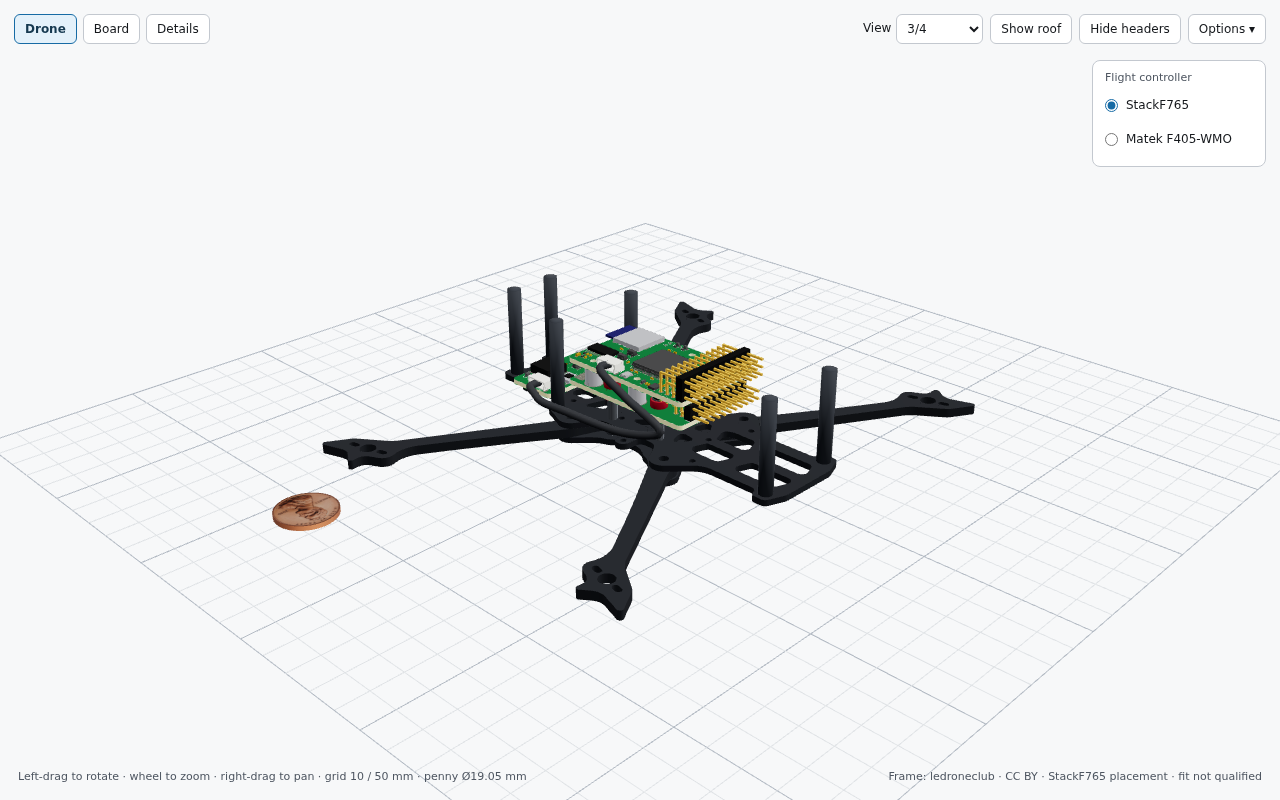
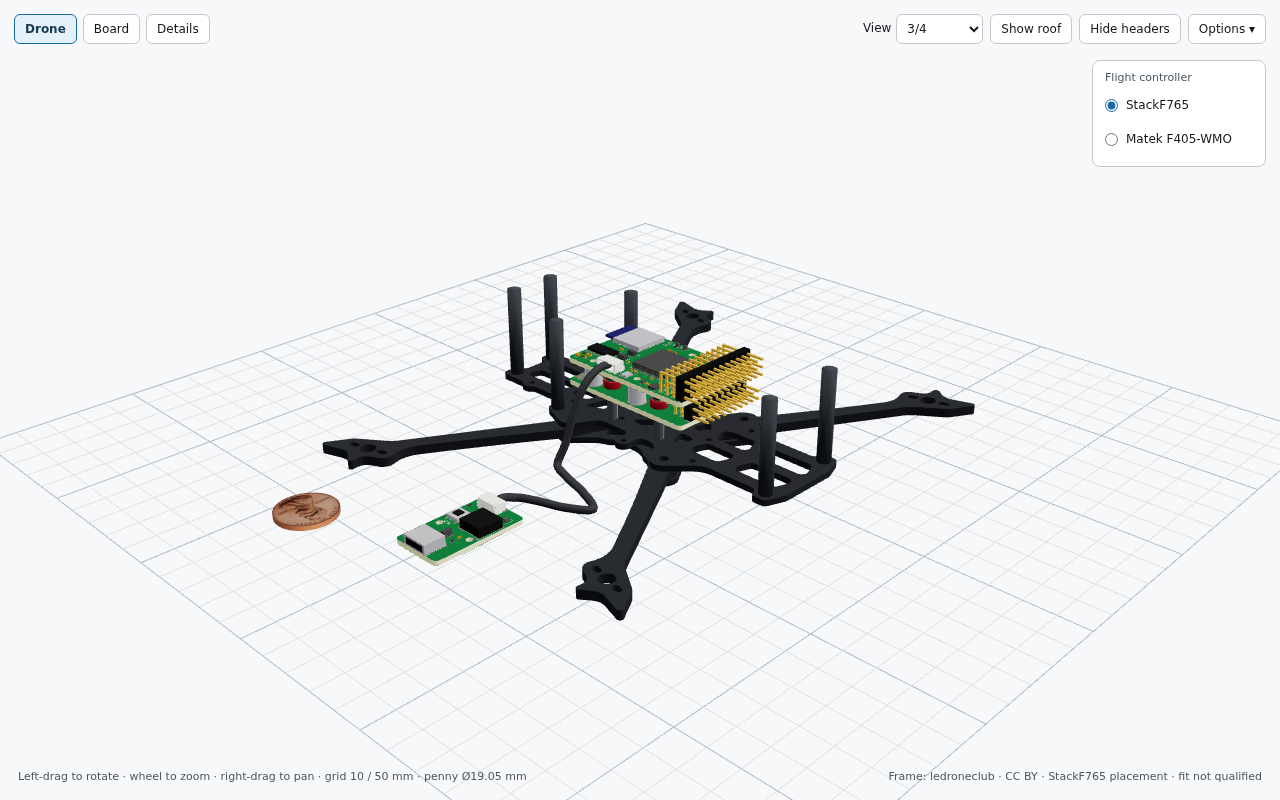
Show the service board loose on its 100 mm cable, not mounted on the frame
The service board (USB / buzzer / boot) now lies on the ground grid to the
right of the frame, unattached, with the cable draped from J5 on the upper
board's right-hand edge. Foam tape removed; Details and notes wording updated.

Changed region(s): [[0.3125, 0.4375, 0.5312, 0.7188]]

diff --git a/fc/index.html b/fc/index.html
@@ -4,7 +4,7 @@
 :root{--bg:#f7f8f9;--fg:#15181c;--muted:#4e5661;--panel:rgba(255,255,255,.92);--line:#c3c8cf}*{box-sizing:border-box}html,body{margin:0;height:100%;overflow:hidden;background:var(--bg);color:var(--fg);font:14px/1.45 system-ui,sans-serif}canvas{display:block}aside{position:absolute;left:18px;top:18px;width:300px;background:var(--panel);border:1px solid var(--line);border-radius:8px;padding:15px;z-index:2}h1{font-size:17px;line-height:1.25;margin:0 0 9px}p{margin:8px 0;color:var(--muted);font-size:12px}.key{font-size:12px;padding:8px 0;border-top:1px solid var(--line)}.badge{display:inline-block;font-size:10px;text-transform:uppercase;letter-spacing:.08em;background:#e6edf5;color:#29425b;padding:3px 7px;border-radius:4px;margin-bottom:9px}.dot{display:inline-block;width:10px;height:10px;border-radius:2px;margin-right:6px}.dark{background:#24272d}.green{background:#086b32}nav{position:absolute;right:18px;top:18px;display:flex;gap:6px;z-index:3;flex-wrap:wrap;justify-content:flex-end}button,a{font:12px system-ui;color:var(--fg);background:var(--panel);border:1px solid var(--line);padding:7px 10px;border-radius:6px;text-decoration:none;cursor:pointer}button:hover,a:hover{border-color:#65778c}footer{position:absolute;bottom:15px;left:18px;right:18px;font-size:11px;color:var(--muted);display:flex;justify-content:space-between;pointer-events:none}.label{position:absolute;padding:5px 8px;border:1px solid var(--line);border-radius:5px;background:var(--panel);font-size:12px;pointer-events:none;white-space:nowrap}.label small{display:block;font-size:10px;color:var(--muted)}#error{color:#a13d21} @media(max-width:850px){aside{width:250px;top:auto;bottom:45px;padding:10px;max-height:180px;overflow:auto}nav{left:10px;right:10px;top:10px}h1{font-size:14px}.label{display:none}footer{font-size:9px;gap:8px}}
 body #legend{max-height:min(460px,calc(100vh - 170px));overflow:auto}@media(max-width:850px){body #legend{top:132px;max-height:min(275px,calc(100vh - 330px));overflow:auto}}#fcOptions{position:fixed;right:14px;top:60px;z-index:5;min-width:174px;background:var(--panel);color:var(--fg);border:1px solid var(--line);border-radius:8px;padding:9px 12px;backdrop-filter:blur(4px)}.fc-selection{border:0;margin:0;padding:0;min-width:0}.fc-selection legend{color:var(--muted);font-size:11px;margin:0 0 3px;padding:0}.fc-selection label{display:flex;align-items:center;gap:8px;min-height:34px;font-size:12px;white-space:nowrap;cursor:pointer}.fc-selection input{margin:0;accent-color:#176ba5}.fc-selection label:focus-within{outline:2px solid #176ba5;outline-offset:2px;border-radius:3px}@media(max-width:850px){#fcOptions{top:104px;right:14px;min-width:166px;padding:8px 10px}.fc-selection label{min-height:36px}}.viewer-controls button:disabled{opacity:.55;cursor:default}#legend [hidden]{display:none!important}aside a.inline{font:inherit;color:inherit;background:none;border:0;padding:0;border-radius:0;text-decoration:underline}
 </style><link href="assets/pin-table.css" rel="stylesheet"/><link href="assets/controls.css" rel="stylesheet"/></head><body>
-<aside hidden="" id="legend"><span class="badge">Provisional placement study</span><h1 id="selectedTitle">StackF765<br/>MOD-L 4″ HD Cargo</h1><p id="selectedIntro">Actual supplied frame meshes and StackF765 board placement. Frame, main flight-controller stack and its service board only.</p><div class="key"><span class="dot dark"></span><b>MOD-L HD Cargo</b><br/>4″ regular arms · Cargo top/bottom · cross plate<br/>30 mm frame standoffs.<br/>Frame design: MOD-L by ledroneclub, <a class="inline" href="https://www.thingiverse.com/thing:4295478" rel="noopener" target="_blank">Thingiverse thing 4295478</a>, licensed Creative Commons Attribution (CC BY).</div><div class="key" id="newFCDetails">StackF765: STM32F765VIT6 flight controller, ArduPilot board name StackF765, 2S–3S, 50 A. Upper (flight controller) and Lower (power) boards: 31.5 × 48 mm on 6.0 mm standoffs; Upper top surface 7.6 mm above the Lower’s. 20 × 20 mm grommet mount. Service board (USB, buzzer, boot): 18 × 32 mm on a 100 mm six-wire JST-SH cable.</div><p id="roofNote">Roof hidden to show the FC and rubber grommets; frame posts are 30 mm.</p><p id="newFCFit">KiCad board models with standard dark-green display solder mask, black headers and gold pins applied as display materials. No synthetic pad solids, overlaid board textures or altered board geometry. Visible posts, red rubber mounts and screws are provisional nominal illustrations, as are the foam tape, cable route and position of the service board. No motors, ESC, battery or other wiring. Design verified by rule checks; no hardware built yet.</p><div hidden="" id="matekDetails"><div class="key"><b>Matek F405-WMO</b><br/>22 × 32 mm boards · reference 3D reconstruction<br/>1 mm adhesive mount at the same FC site.</div><p>Manufacturer photographs supply component appearance. Stack height and adhesive fit are reference estimates; this is not manufacturer CAD or a qualified mount. Headers are not fitted in this reference assembly.</p><p><a href="https://www.mateksys.com/?portfolio=f405-wmo" rel="noopener" target="_blank">Matek documentation and pinout</a></p></div><p id="error"></p><a href="#current-geometry-details">Design notes</a><section aria-label="Connector pin reference" data-fc-pin-table="" id="newFCPins"></section><details id="current-geometry-details"><summary>Current geometry and display limits</summary><p>Boards are the GLB models KiCad exports from the design files, placed by rigid transforms only: Lower PCB 9.5–11.1 mm above the bottom plate, 6.0 mm standoffs, 31.5 × 48 mm outlines. Colours are display materials, not a fabrication finish. Header visibility toggles the Upper J1 and Lower J2 header models; the interboard connector stays visible. Mounting posts, rubber, screws, tape and cable are simple drawn shapes, not CAD. The Matek option is a separate historical photo-derived reference.</p><p>Renders generated from the KiCad design files at <a class="inline" href="https://github.com/PeterJBurke/stackf765" rel="noopener">github.com/PeterJBurke/stackf765</a>.</p><p><a class="inline" href="../CREDITS.txt">Credits and licences</a></p></details></aside>
+<aside hidden="" id="legend"><span class="badge">Provisional placement study</span><h1 id="selectedTitle">StackF765<br/>MOD-L 4″ HD Cargo</h1><p id="selectedIntro">Actual supplied frame meshes and StackF765 board placement. Frame, main flight-controller stack and its service board only.</p><div class="key"><span class="dot dark"></span><b>MOD-L HD Cargo</b><br/>4″ regular arms · Cargo top/bottom · cross plate<br/>30 mm frame standoffs.<br/>Frame design: MOD-L by ledroneclub, <a class="inline" href="https://www.thingiverse.com/thing:4295478" rel="noopener" target="_blank">Thingiverse thing 4295478</a>, licensed Creative Commons Attribution (CC BY).</div><div class="key" id="newFCDetails">StackF765: STM32F765VIT6 flight controller, ArduPilot board name StackF765, 2S–3S, 50 A. Upper (flight controller) and Lower (power) boards: 31.5 × 48 mm on 6.0 mm standoffs; Upper top surface 7.6 mm above the Lower’s. 20 × 20 mm grommet mount. Service board (USB / buzzer / boot) is on a 100 mm cable and can be mounted anywhere on the airframe; shown loose. It is 18 × 32 mm; the cable is six-wire JST-SH.</div><p id="roofNote">Roof hidden to show the FC and rubber grommets; frame posts are 30 mm.</p><p id="newFCFit">KiCad board models with standard dark-green display solder mask, black headers and gold pins applied as display materials. No synthetic pad solids, overlaid board textures or altered board geometry. Visible posts, red rubber mounts and screws are provisional nominal illustrations, as is the cable route to the loose service board, which lies on the ground grid beside the frame and is not fixed to it. No motors, ESC, battery or other wiring. Design verified by rule checks; no hardware built yet.</p><div hidden="" id="matekDetails"><div class="key"><b>Matek F405-WMO</b><br/>22 × 32 mm boards · reference 3D reconstruction<br/>1 mm adhesive mount at the same FC site.</div><p>Manufacturer photographs supply component appearance. Stack height and adhesive fit are reference estimates; this is not manufacturer CAD or a qualified mount. Headers are not fitted in this reference assembly.</p><p><a href="https://www.mateksys.com/?portfolio=f405-wmo" rel="noopener" target="_blank">Matek documentation and pinout</a></p></div><p id="error"></p><a href="#current-geometry-details">Design notes</a><section aria-label="Connector pin reference" data-fc-pin-table="" id="newFCPins"></section><details id="current-geometry-details"><summary>Current geometry and display limits</summary><p>Boards are the GLB models KiCad exports from the design files, placed by rigid transforms only: Lower PCB 9.5–11.1 mm above the bottom plate, 6.0 mm standoffs, 31.5 × 48 mm outlines. Colours are display materials, not a fabrication finish. Header visibility toggles the Upper J1 and Lower J2 header models; the interboard connector stays visible. Mounting posts, rubber, screws and cable are simple drawn shapes, not CAD. The Matek option is a separate historical photo-derived reference.</p><p>Renders generated from the KiCad design files at <a class="inline" href="https://github.com/PeterJBurke/stackf765" rel="noopener">github.com/PeterJBurke/stackf765</a>.</p><p><a class="inline" href="../CREDITS.txt">Credits and licences</a></p></details></aside>
 <div class="page-links"><a aria-current="page" href="./">Drone</a><a href="board.html">Board</a><button id="droneDetails">Details</button></div><nav aria-label="Drone controls" class="viewer-controls"><label>View <select id="droneView"><option value="iso">3/4</option><option value="top">Top</option><option value="side">Side</option><option value="detail">FC detail</option></select></label><button id="roof">Show roof</button><button aria-label="Hide DuPont headers" id="headers" title="Hide DuPont pin headers">Hide headers</button><details class="options"><summary>Options</summary><div><button id="theme">Dark / light</button><button id="labels">Labels</button></div></details></nav><div hidden=""><button id="iso"></button><button id="top"></button><button id="side"></button><button id="detail"></button></div>
 <section aria-label="Flight controller selection" id="fcOptions"><fieldset class="fc-selection"><legend>Flight controller</legend><label><input checked="" name="droneFC" type="radio" value="ours"/>StackF765</label><label><input name="droneFC" type="radio" value="matek"/>Matek F405-WMO</label></fieldset></section>
 <div class="label" id="fcLabel">StackF765 stack<small>Direct rubber-grommet mounting</small></div><div class="label" id="frameLabel">MOD-L 4″ HD Cargo<small>Supplied STL geometry · mm scale</small></div>

diff --git a/fc/assets/stackf765-loader.js b/fc/assets/stackf765-loader.js
@@ -26,7 +26,7 @@ export const DIM = {
   hole: 10,            // 20 x 20 mm mounting pattern: holes at +-10 mm
   post: 7.0,           // frame post under each grommet (illustrative)
   grommet: 6.6,        // rubber grommet height (illustrative)
-  tape: 1.0,           // foam tape under the service board (assumed)
+  ground: -7.4,        // the drone page's ground grid (just under the frame's cross plate)
   cable: 100,          // service cable length
 };
 DIM.zLower = DIM.post + (DIM.grommet - DIM.pcb) / 2;   // bottom face of the Lower PCB: 9.5
@@ -47,9 +47,10 @@ const BOARDS = {
   upper: { key: 'UpperLogic', name: 'Upper', headers: ['J1'], z: DIM.zUpper },
   service: { key: 'Service', name: 'Service', headers: [], z: 0 },
 };
-// Where the drone page shows the service board: flat on the bottom plate behind the stack,
-// long axis across the frame, USB socket toward the left side (-X).
-export const SERVICE_SITE = { x: 0, y: -42, rotZ: Math.PI / 2 };
+// Where the drone page shows the service board: a loose accessory, not fixed to the frame. It lies
+// flat on the ground grid to the right of the frame, between the two right-hand arms, component side
+// up, with its cable connector (J2) toward the stack. The user mounts it wherever suits the airframe.
+export const SERVICE_SITE = { x: 80, y: 0, z: DIM.ground + 0.1, rotZ: -Math.PI / 2 };
 
 /* ---- display materials -------------------------------------------------------------------
  * KiCad's export colours are replaced by the reference viewer's board appearance: dark-green solder
@@ -212,36 +213,42 @@ export function makeMountHardware() {
   return out;
 }
 
-// Round cable along a smooth path through `pts` ([x,y,z] mm).
-function makeCable(pts, radius = 1.25) {
-  const curve = new THREE.CatmullRomCurve3(pts.map((p) => new THREE.Vector3(...p)), false, 'centripetal');
+// Round cable along a smooth path through `pts` ([x,y,z] mm); never dips below `floor` if given.
+function makeCable(pts, radius = 1.25, floor = -Infinity) {
+  let curve = new THREE.CatmullRomCurve3(pts.map((p) => new THREE.Vector3(...p)), false, 'centripetal');
+  if (floor > -Infinity) curve = new THREE.CatmullRomCurve3(curve.getPoints(160).map((p) => p.setZ(Math.max(p.z, floor))), false, 'centripetal');
   const mesh = new THREE.Mesh(new THREE.TubeGeometry(curve, 96, radius, 10, false),
     new THREE.MeshStandardMaterial({ color: 0x2b2d31, metalness: 0, roughness: 0.6 }));
   mesh.userData.length = curve.getLength();
   return mesh;
 }
-// From the Upper board's cable connector (J5, opens toward +X): the slack is folded forward and down
-// beside the stack, then the cable runs back along the right edge of the plate into the service
-// board's connector (J2). The fold is sized so the drawn cable is the real 100 mm.
-function routeCable(upper, service) {
+// From the Upper board's cable connector (J5, on the right-hand edge, opening toward +X) the cable
+// leaves horizontally, drapes over the edge of the bottom plate down to the ground, and lies there in
+// one slack bow into the loose service board's connector (J2). The sideways slack is sized so the
+// drawn cable is the real 100 mm.
+function routeCable(upper, service, radius = 1.25) {
   const end = (b, ref) => {
     b.body.updateMatrixWorld(true);
-    if (b.boxes[ref]) { const box = new THREE.Box3().setFromObject(b.body.getObjectByName(ref)); return { c: box.getCenter(new THREE.Vector3()), x: box.max.x }; }
+    if (b.boxes[ref]) { const box = new THREE.Box3().setFromObject(b.body.getObjectByName(ref)); return { c: box.getCenter(new THREE.Vector3()), min: box.min.x, max: box.max.x }; }
     if (!b.parts[ref]) return null;
-    const c = b.parts[ref].clone().applyMatrix4(b.body.matrixWorld); c.z += 1; return { c, x: c.x + 2 };   // connector has no 3D model in this export
+    const c = b.parts[ref].clone().applyMatrix4(b.body.matrixWorld); c.z += 1; return { c, min: c.x - 2, max: c.x + 2 };   // connector has no 3D model in this export
   };
   const a = end(upper, 'J5'), b = end(service, 'J2');
   if (!a || !b) return null;
-  const ac = a.c, bc = b.c, ax = a.x, bx = b.x, az = ac.z + 0.2, bz = bc.z;
-  const path = (h) => [[ax - 1.5, ac.y, az], [ax + 2.5, ac.y, az], [ax + 4.2, ac.y + 0.45 * h, az - 5], [ax + 4.6, ac.y + h, 9],
-    [ax + 5.6, ac.y + 0.55 * h, 4.4], [21.6, -20, 3.2], [21.7, -31, 3.2], [bx + 5.5, bc.y + 5, bz + 0.3], [bx + 2.5, bc.y, bz], [bx - 1.5, bc.y, bz]];
-  let lo = 0, hi = 45, cable = null;
+  const ax = a.max, ay = a.c.y, az = a.c.z + 0.2, bx = b.min, by = b.c.y, bz = b.c.z, g = DIM.ground + radius + 0.05;
+  const x0 = ax + 21, run = bx - 7 - x0;                 // where it reaches the ground; length of the ground run
+  const lie = (t, h) => [x0 + t * run, ay + (by - ay) * t + h * Math.sin(Math.PI * t) ** 1.5, g];   // one slack bow on the ground, toward the nose
+  const path = (h) => [[ax - 1.5, ay, az], [ax + 3, ay, az], [ax + 9, ay, az - 3.5], [ax + 14, ay, az - 12],
+    [ax + 17.5, ay, g + 6], lie(0, h), lie(0.14, h), lie(0.28, h), lie(0.5, h), lie(0.72, h), lie(0.86, h), lie(1, h),
+    [bx - 2.5, by, bz], [bx + 1.5, by, bz]];
+  let lo = 0, hi = 34, cable = null;
   for (let i = 0; i < 18; i++) {
     const h = (lo + hi) / 2;
-    cable = makeCable(path(h));
+    cable = makeCable(path(h), radius, g);
     if (cable.userData.length < DIM.cable) lo = h; else hi = h;
     if (i < 17) cable.geometry.dispose();
   }
+  cable.userData.slack = (lo + hi) / 2;
   return cable;
 }
 
@@ -249,7 +256,7 @@ function routeCable(upper, service) {
  * addCurrentNativeAssembly). Options:
  *   boards     which GLBs to load, default all three
  *   hardware   add the illustrative posts, grommets and screws (default true)
- *   serviceSite 'drone' = taped to the bottom plate behind the stack with its cable;
+ *   serviceSite 'drone' = loose on the ground grid beside the frame, on its 100 mm cable;
  *               'bench' = alone at the origin, lying on the floor plane (Board page)
  *   base       URL of the models folder
  *   onProgress(loadedBytes)
@@ -271,13 +278,9 @@ export async function addStackF765Assembly(groups, options = {}) {
   if (loaded.service) {
     const s = loaded.service;
     if (options.serviceSite === 'drone') {
-      s.body.position.set(SERVICE_SITE.x, SERVICE_SITE.y, DIM.tape);
+      s.body.position.set(SERVICE_SITE.x, SERVICE_SITE.y, SERVICE_SITE.z);
       s.body.rotation.z = SERVICE_SITE.rotZ;
-      const tape = new THREE.Mesh(new THREE.BoxGeometry(28, 14, DIM.tape - 0.1), new THREE.MeshStandardMaterial({ color: 0xd9dbde, roughness: 0.9 }));
-      tape.position.set(SERVICE_SITE.x, SERVICE_SITE.y, DIM.tape / 2);
-      tape.name = 'Service/foam tape (assumed)';
-      tape.userData = { group: 'fc', board: 'Service', role: 'service_illustration', dupontHeader: false, illustrative: true };
-      groups.fc.add(s.body, tape);
+      groups.fc.add(s.body);
       if (loaded.upper) {
         const cable = routeCable(loaded.upper, s);
         if (cable) {

diff --git a/fc/notes.html b/fc/notes.html
@@ -1,1 +1,1 @@
-<!doctype html><html lang="en"><meta charset="utf-8"><meta name="viewport" content="width=device-width,initial-scale=1"><title>StackF765 design notes</title><style>body{max-width:850px;margin:24px auto;padding:16px;font:16px/1.5 system-ui}</style><nav><a href="./">Drone</a> · <a href="board.html">Board</a></nav><h1>StackF765 render notes</h1><p>The StackF765 Upper, Lower and Service board models share one loader across the Drone, Board and comparison pages. The stack sits on 6.0 mm standoffs with provisional posts and rubber mounts. Design verified by rule checks; no hardware built yet.</p><p>Display-only dark-green solder mask, black headers and gold pins are materials applied to the board models KiCad exports. The exported geometry is unchanged. The 31.5 × 48 mm manufacturing outlines in the design files govern clearance, not this render.</p><p>STM32F765VIT6, ArduPilot board name StackF765, 2S–3S, 50 A. The Matek option remains its separately disclosed photograph-derived reference. External-header visibility toggles the Upper J1 and Lower J2 header models; the interboard pair stays visible.</p><p>Renders generated from the KiCad design files at <a href="https://github.com/PeterJBurke/stackf765">github.com/PeterJBurke/stackf765</a>. A rendered assembly is not a fabrication-release claim.</p></html>
+<!doctype html><html lang="en"><meta charset="utf-8"><meta name="viewport" content="width=device-width,initial-scale=1"><title>StackF765 design notes</title><style>body{max-width:850px;margin:24px auto;padding:16px;font:16px/1.5 system-ui}</style><nav><a href="./">Drone</a> · <a href="board.html">Board</a></nav><h1>StackF765 render notes</h1><p>The StackF765 Upper, Lower and Service board models share one loader across the Drone, Board and comparison pages. The stack sits on 6.0 mm standoffs with provisional posts and rubber mounts. Service board (USB / buzzer / boot) is on a 100 mm cable and can be mounted anywhere on the airframe; shown loose. Design verified by rule checks; no hardware built yet.</p><p>Display-only dark-green solder mask, black headers and gold pins are materials applied to the board models KiCad exports. The exported geometry is unchanged. The 31.5 × 48 mm manufacturing outlines in the design files govern clearance, not this render.</p><p>STM32F765VIT6, ArduPilot board name StackF765, 2S–3S, 50 A. The Matek option remains its separately disclosed photograph-derived reference. External-header visibility toggles the Upper J1 and Lower J2 header models; the interboard pair stays visible.</p><p>Renders generated from the KiCad design files at <a href="https://github.com/PeterJBurke/stackf765">github.com/PeterJBurke/stackf765</a>. A rendered assembly is not a fabrication-release claim.</p></html>

diff --git a/tools/adapt-reference-pages.py b/tools/adapt-reference-pages.py
@@ -23,11 +23,11 @@ s = sub(s, 'Actual supplied frame meshes and current native board placement. Fra
 s = sub(s, '4″ regular arms · Cargo top/bottom · cross plate<br/>30 mm frame standoffs.',
         '4″ regular arms · Cargo top/bottom · cross plate<br/>30 mm frame standoffs.<br/>Frame design: MOD-L by ledroneclub, <a class="inline" href="https://www.thingiverse.com/thing:4295478" rel="noopener" target="_blank">Thingiverse thing 4295478</a>, licensed Creative Commons Attribution (CC BY).')
 s = rsub(s, r'(?<=<div class="key" id="newFCDetails">).*?(?=</div>)',
-         'StackF765: STM32F765VIT6 flight controller, ArduPilot board name StackF765, 2S–3S, 50 A. Upper (flight controller) and Lower (power) boards: 31.5 × 48 mm on 6.0 mm standoffs; Upper top surface 7.6 mm above the Lower’s. 20 × 20 mm grommet mount. Service board (USB, buzzer, boot): 18 × 32 mm on a 100 mm six-wire JST-SH cable.')
+         'StackF765: STM32F765VIT6 flight controller, ArduPilot board name StackF765, 2S–3S, 50 A. Upper (flight controller) and Lower (power) boards: 31.5 × 48 mm on 6.0 mm standoffs; Upper top surface 7.6 mm above the Lower’s. 20 × 20 mm grommet mount. Service board (USB / buzzer / boot) is on a 100 mm cable and can be mounted anywhere on the airframe; shown loose. It is 18 × 32 mm; the cable is six-wire JST-SH.')
 s = rsub(s, r'(?<=<p id="newFCFit">).*?(?=</p>)',
-         'KiCad board models with standard dark-green display solder mask, black headers and gold pins applied as display materials. No synthetic pad solids, overlaid board textures or altered board geometry. Visible posts, red rubber mounts and screws are provisional nominal illustrations, as are the foam tape, cable route and position of the service board. No motors, ESC, battery or other wiring. ' + STATUS)
+         'KiCad board models with standard dark-green display solder mask, black headers and gold pins applied as display materials. No synthetic pad solids, overlaid board textures or altered board geometry. Visible posts, red rubber mounts and screws are provisional nominal illustrations, as is the cable route to the loose service board, which lies on the ground grid beside the frame and is not fixed to it. No motors, ESC, battery or other wiring. ' + STATUS)
 s = rsub(s, r'(?<=<summary>Current geometry and display limits</summary><p>).*?(?=</p></details>)',
-         'Boards are the GLB models KiCad exports from the design files, placed by rigid transforms only: Lower PCB 9.5–11.1 mm above the bottom plate, 6.0 mm standoffs, 31.5 × 48 mm outlines. Colours are display materials, not a fabrication finish. Header visibility toggles the Upper J1 and Lower J2 header models; the interboard connector stays visible. Mounting posts, rubber, screws, tape and cable are simple drawn shapes, not CAD. The Matek option is a separate historical photo-derived reference.</p><p>' + REPO_LINE + '.</p><p><a class="inline" href="../CREDITS.txt">Credits and licences</a>')
+         'Boards are the GLB models KiCad exports from the design files, placed by rigid transforms only: Lower PCB 9.5–11.1 mm above the bottom plate, 6.0 mm standoffs, 31.5 × 48 mm outlines. Colours are display materials, not a fabrication finish. Header visibility toggles the Upper J1 and Lower J2 header models; the interboard connector stays visible. Mounting posts, rubber, screws and cable are simple drawn shapes, not CAD. The Matek option is a separate historical photo-derived reference.</p><p>' + REPO_LINE + '.</p><p><a class="inline" href="../CREDITS.txt">Credits and licences</a>')
 s = sub(s, 'value="ours"/>New FC</label>', 'value="ours"/>StackF765</label>')
 s = sub(s, '<div class="label" id="fcLabel">New FC stack<small>', '<div class="label" id="fcLabel">StackF765 stack<small>')
 s = sub(s, 'CC BY · New FC placement · fit not qualified</span>', 'CC BY · StackF765 placement · fit not qualified</span>')
